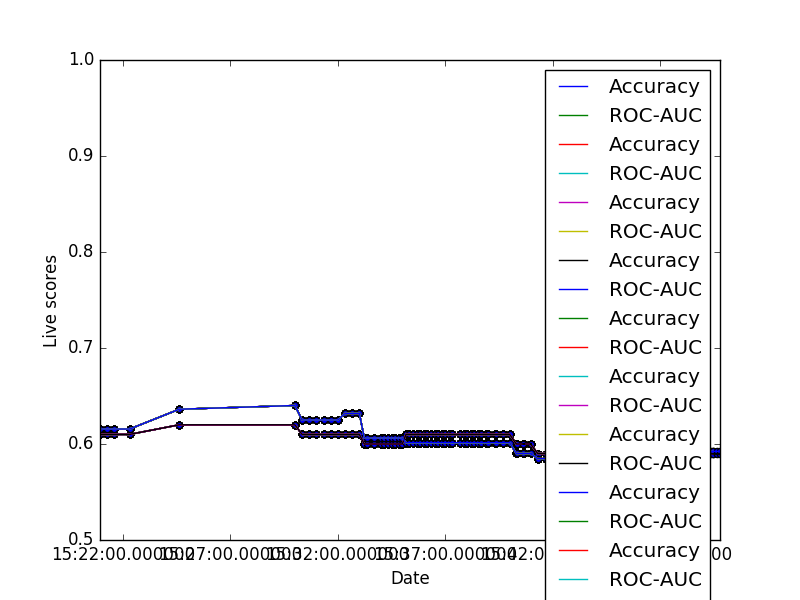
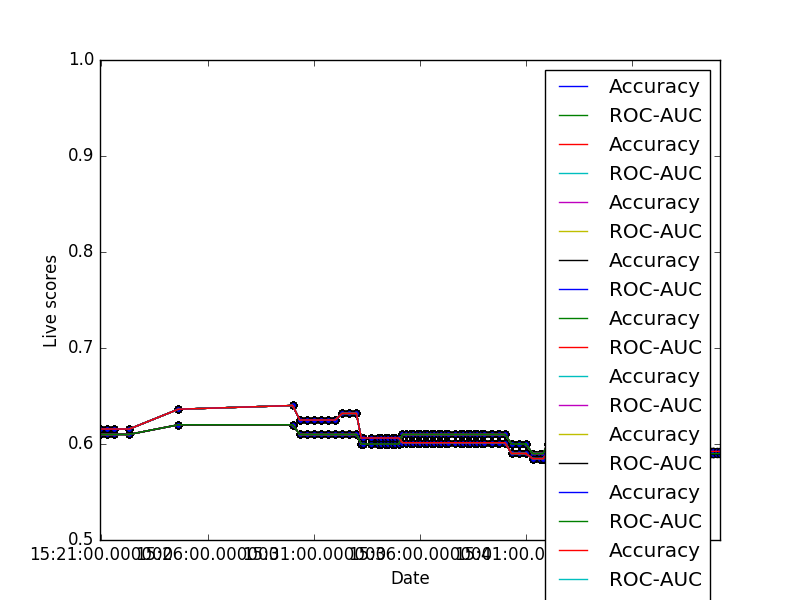
got clock working

Changed region(s): [[0.125, 0.66, 0.6875, 0.78], [0.0312, 0.9, 0.6875, 0.93], [0.875, 0.9, 0.9062, 0.93]]

diff --git a/clock.py b/clock.py
@@ -90,6 +90,8 @@ def make_plots():
     acc = data.Accuracy
     auc = data["ROC-AUC"]
 
+    plt.clf()
+
     plt.plot(time, acc, label="Accuracy")
     plt.plot(time, auc, label="ROC-AUC")
 
@@ -100,9 +102,6 @@ def make_plots():
     plt.xlabel("Date")
     plt.ylabel("Live scores")
     plt.legend(loc="upper right")
-
-    # Delete old figure
-    os.remove("static/live_scores.png")
 
     # Save figure to resources
     plt.savefig("static/live_scores.png")
